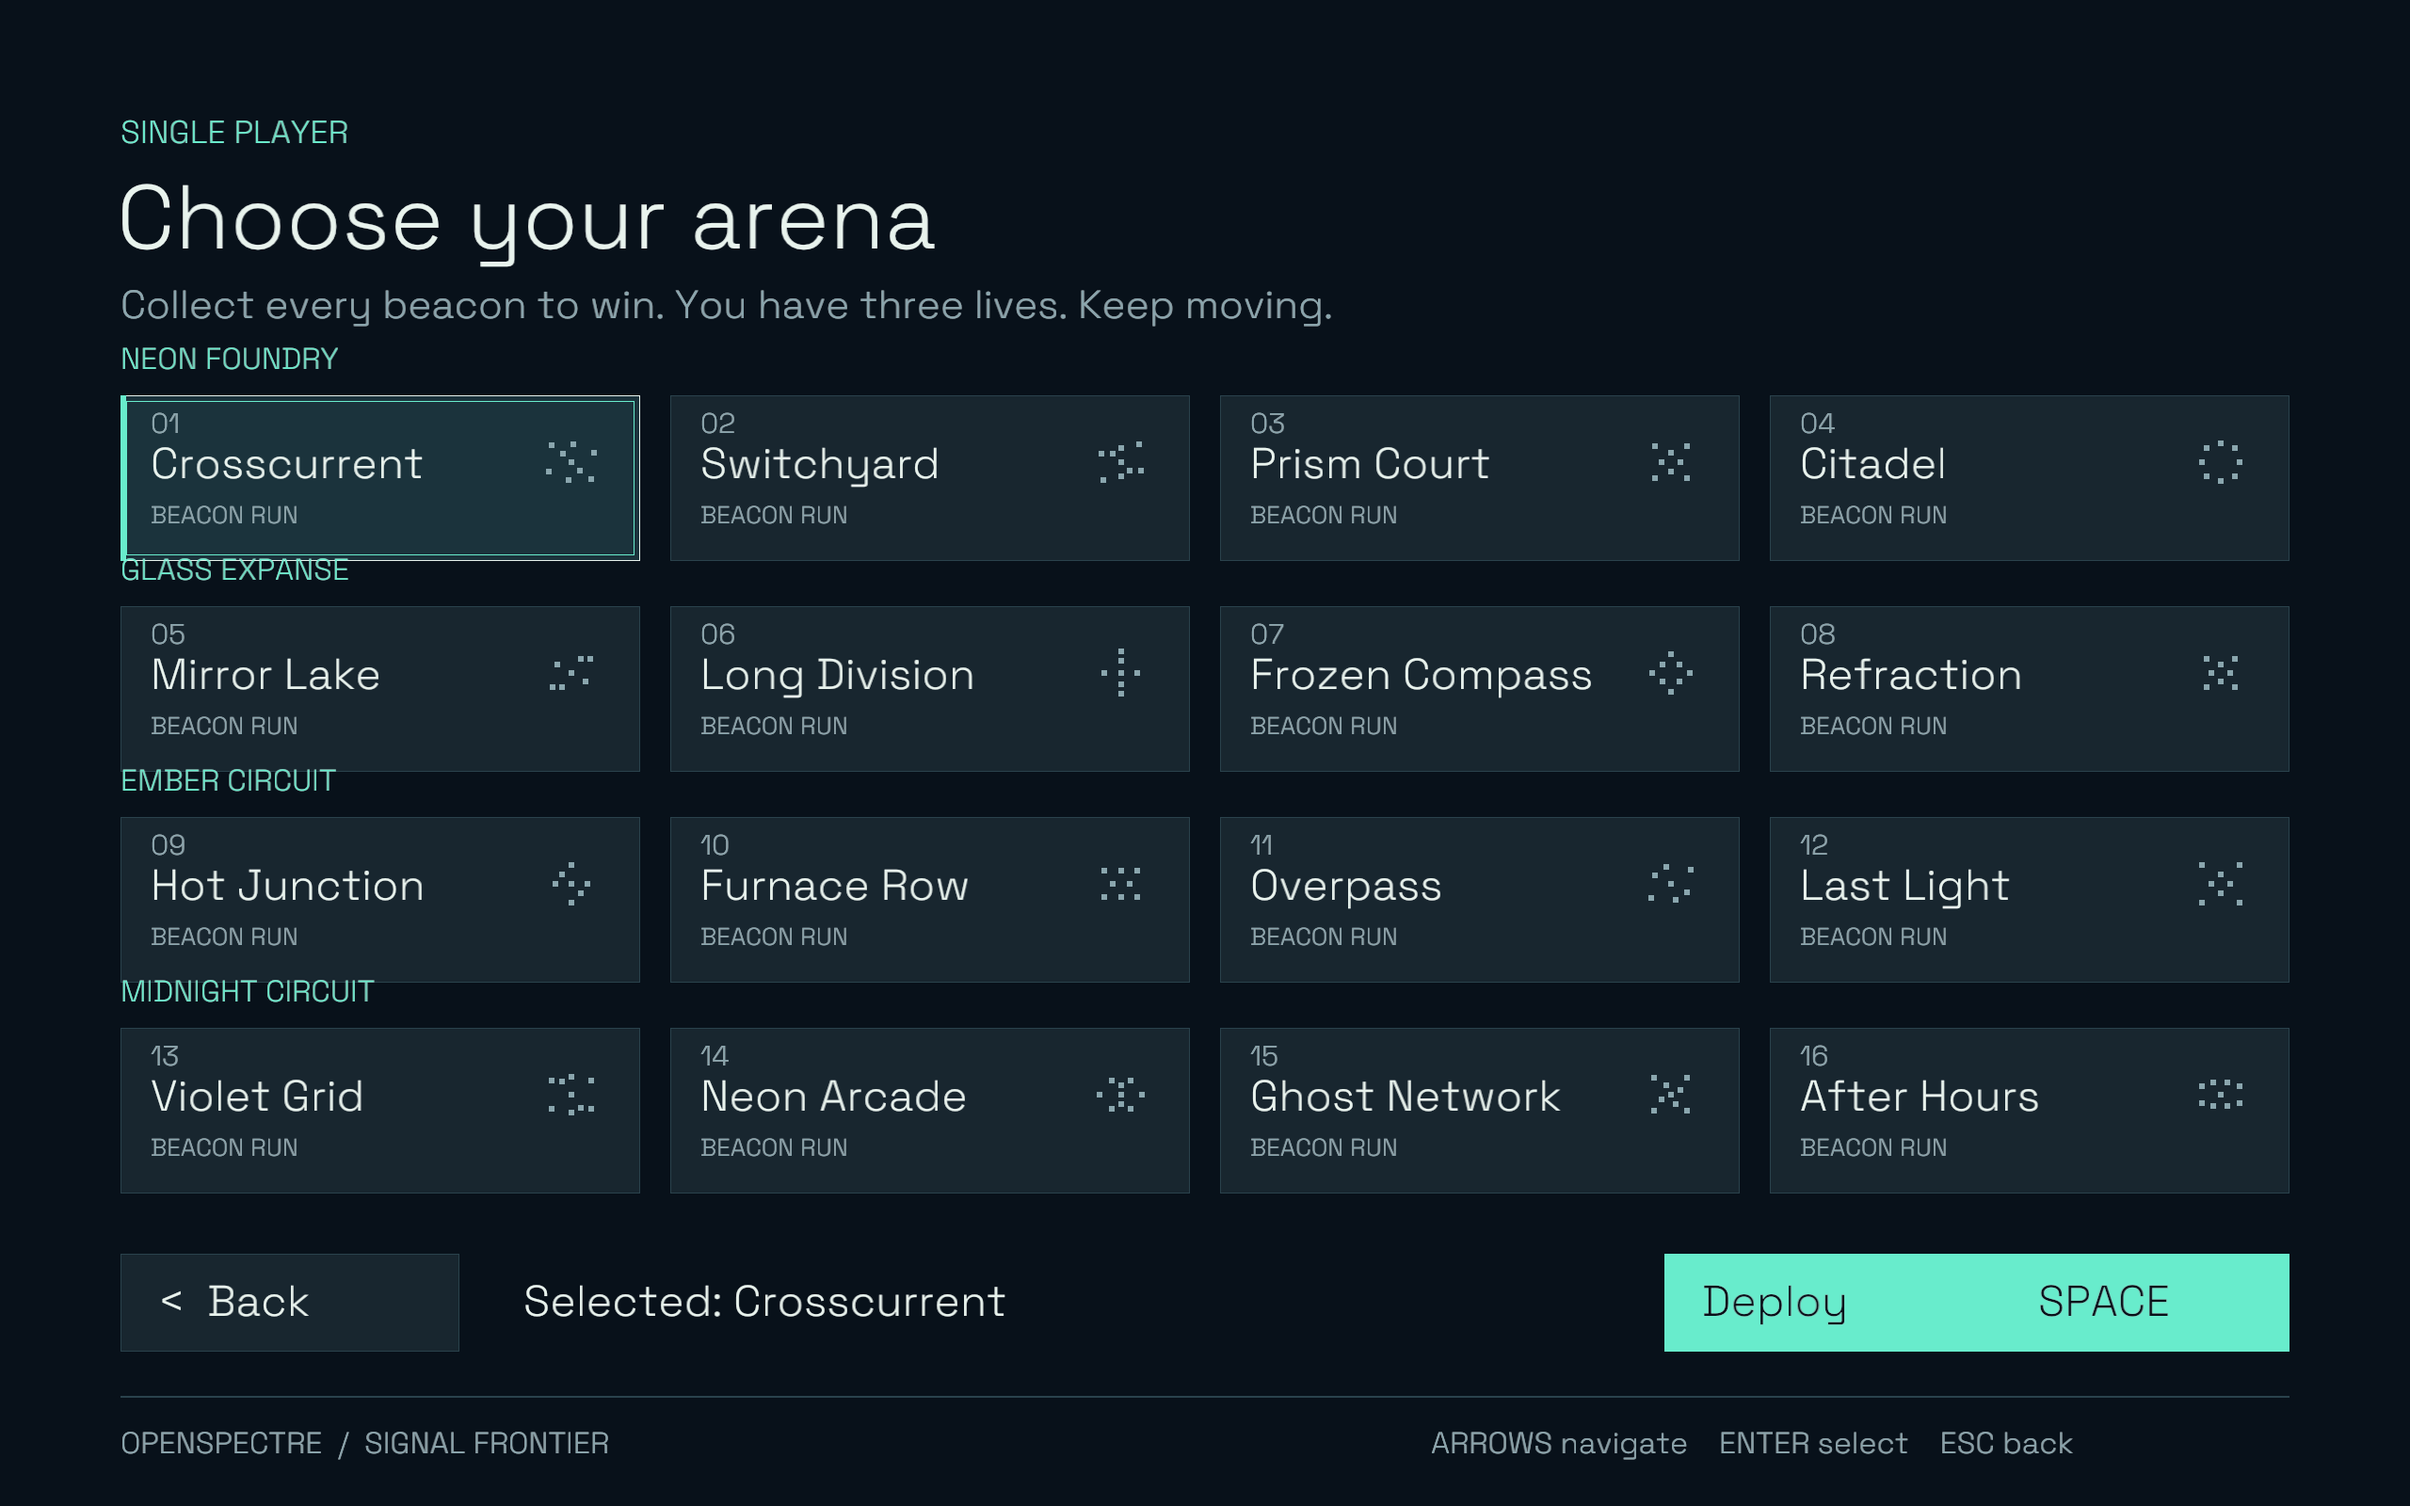
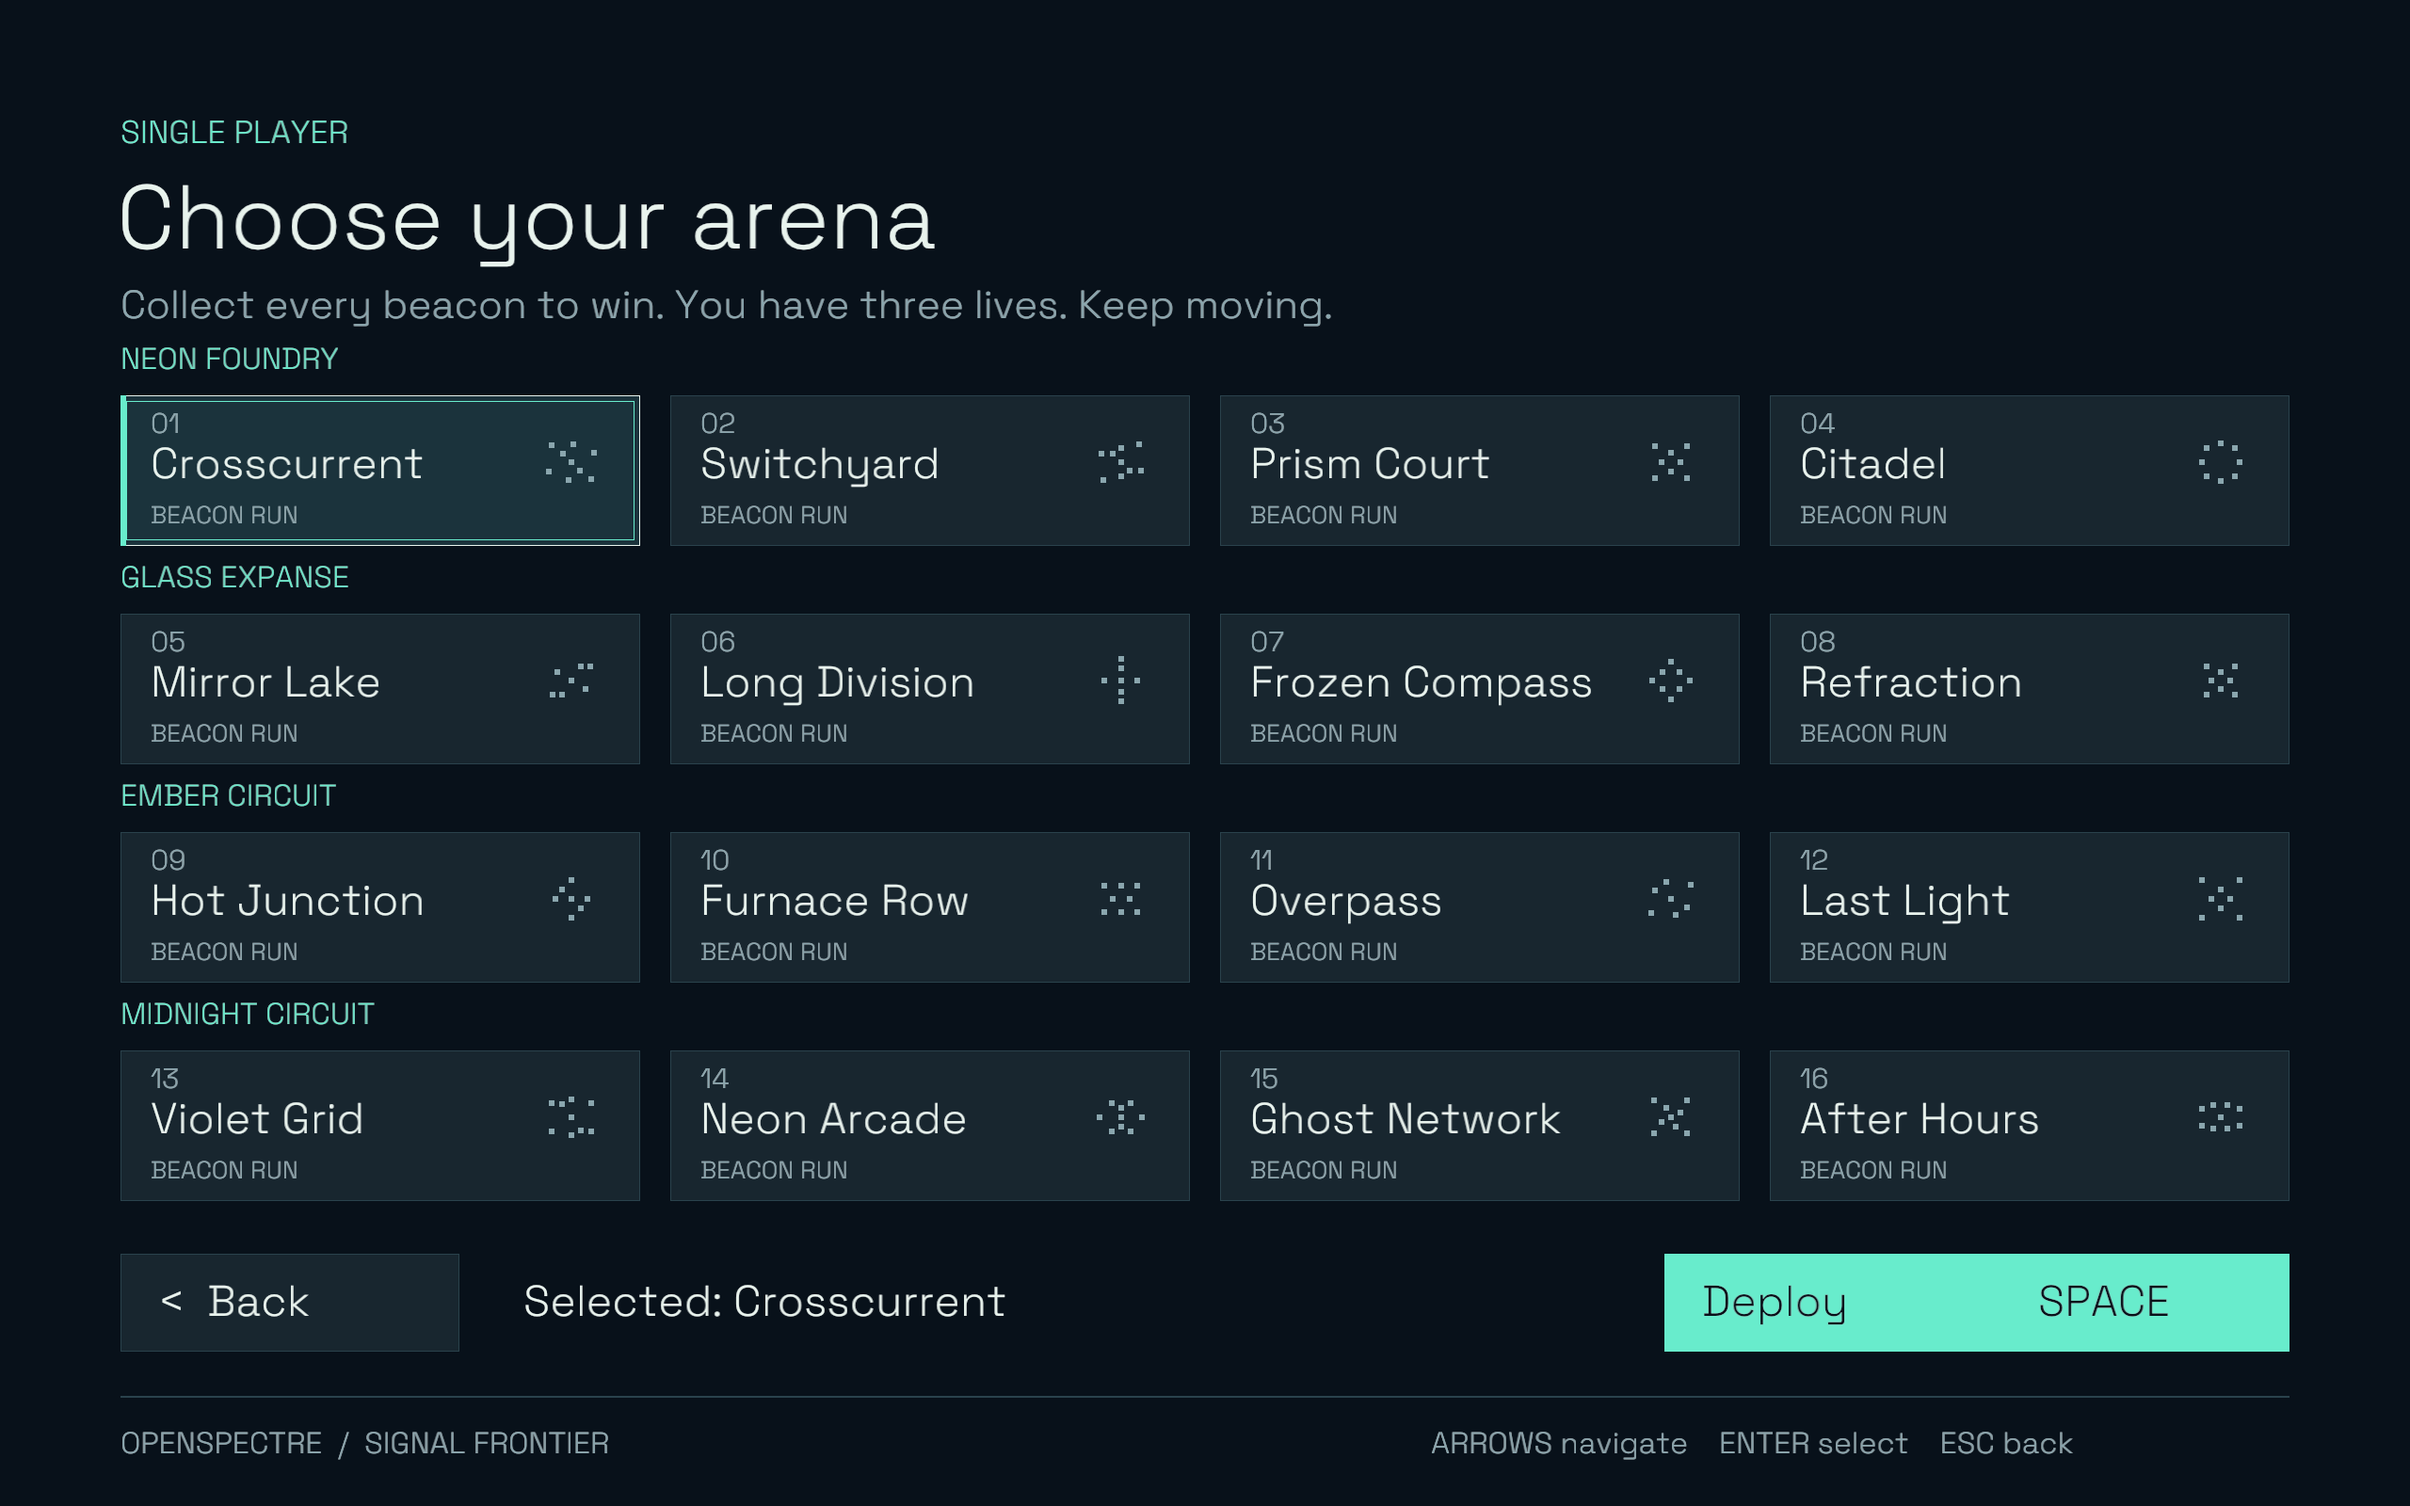
Keep region labels clear in the sixteen-arena picker

diff --git a/crates/spectre-client/src/ui.rs b/crates/spectre-client/src/ui.rs
@@ -300,12 +300,12 @@ impl Ui {
                     "Collect every beacon to win. You have three lives. Keep moving.",
                 );
                 for (zone_index, zone) in pack.zones.iter().enumerate() {
-                    let y = 196. + zone_index as f32 * 112.;
+                    let y = 196. + zone_index as f32 * 116.;
                     self.text(&zone.name.to_uppercase(), 64., y, 16., ACCENT);
                     for (arena_index, arena) in zone.arenas.iter().enumerate() {
                         let index = zone_index * ARENAS_PER_ZONE + arena_index;
                         let x = 64. + arena_index as f32 * 292.;
-                        let r = Rect::new(x, y + 14., 276., 88.);
+                        let r = Rect::new(x, y + 14., 276., 80.);
                         self.button(r, "", Action::Select(index), false);
                         if session.selected == index {
                             self.border(Rect::new(r.x + 3., r.y + 3., r.w - 6., r.h - 6.), ACCENT);
